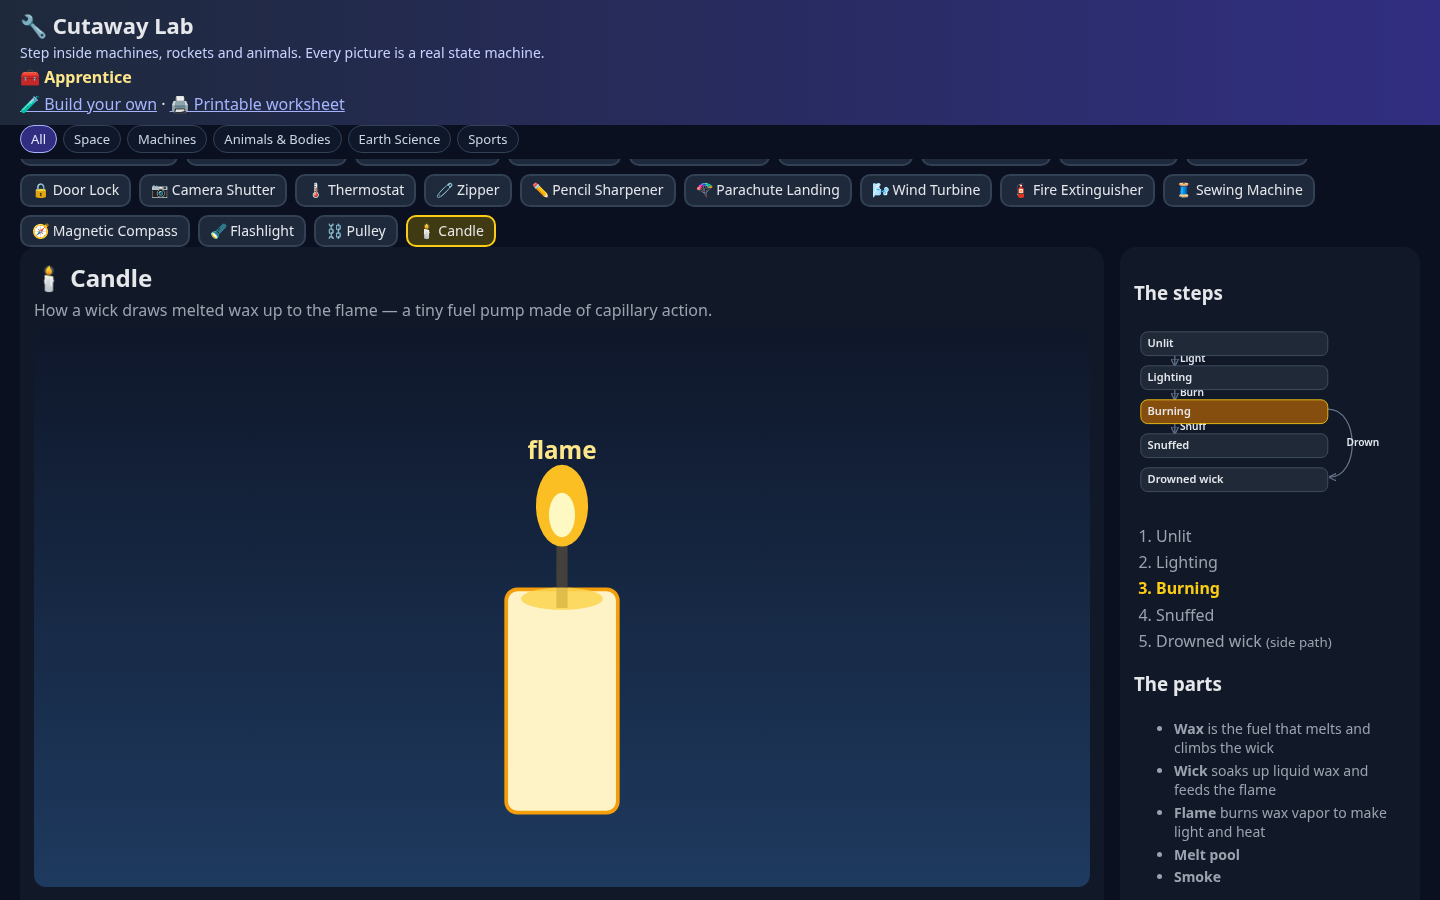
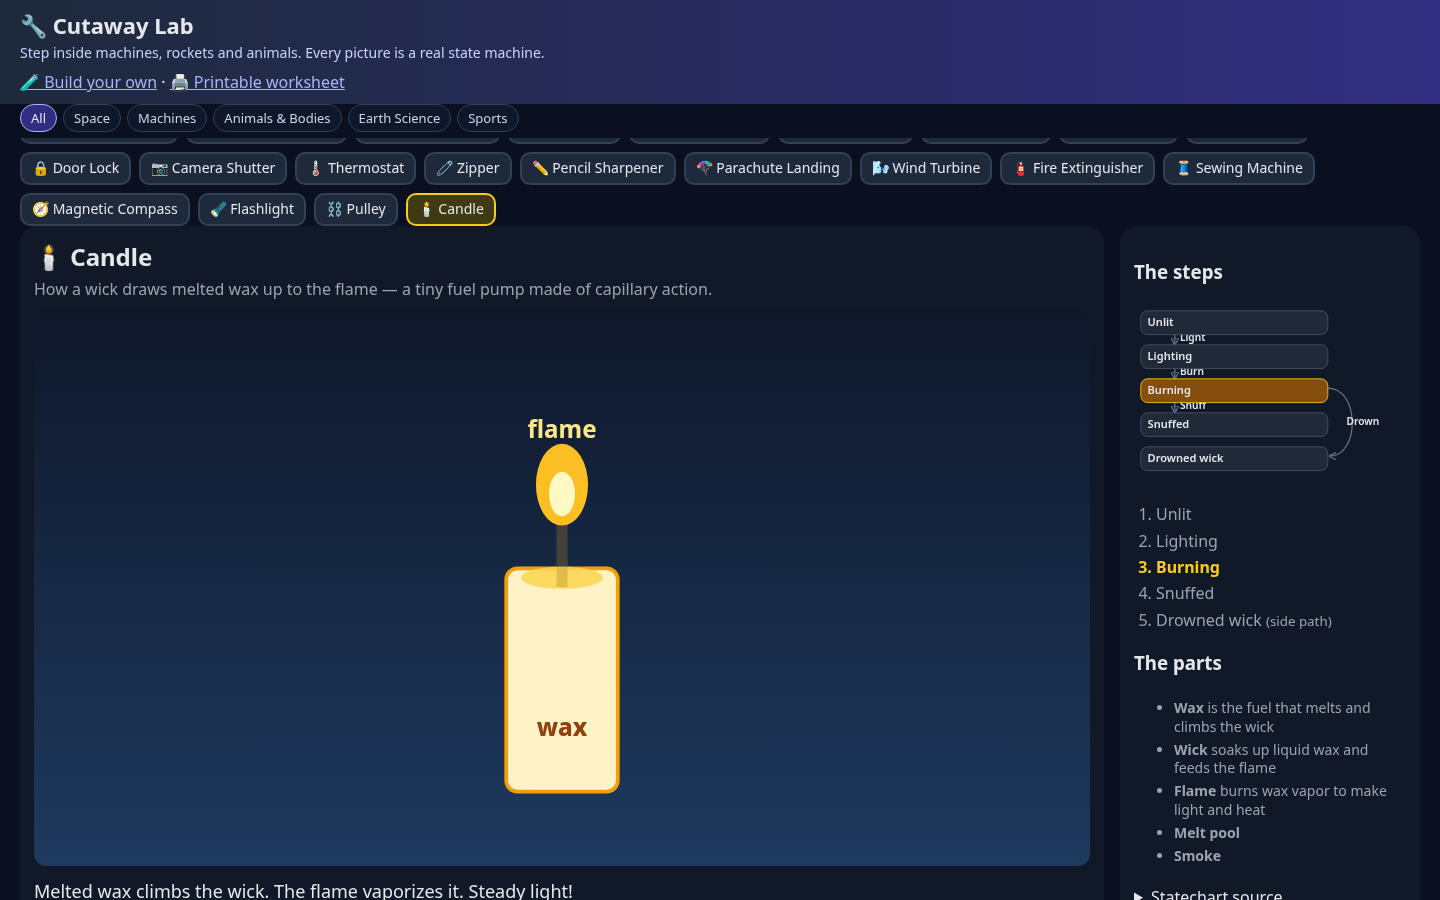
v1.0: bees hive caption below hive; candle wax label contrast
- Hive label no longer sits on the scout
- Wax caption uses dark amber so it reads on cream wax

diff --git a/machines/bees.js b/machines/bees.js
@@ -6,7 +6,7 @@ export default {
     { id: 'sun', label: 'Sun', job: 'is the compass the bees use for direction', svg: '<circle cx="350" cy="40" r="22" fill="#fde047"/>' },
     { id: 'hive', label: 'Hive', job: 'is where the dance happens', svg: '<rect x="30" y="170" width="90" height="100" rx="12" fill="#d97706"/><path d="M30 200 h90 M30 230 h90" stroke="#92400e" stroke-width="3"/>', explode: [-10, 10] },
     { id: 'lblHive', label: 'Hive label',
-      svg: '<text x="70" y="160" text-anchor="middle" fill="#fde68a" font-size="13" font-weight="700">hive</text>' },
+      svg: '<text x="70" y="250" text-anchor="middle" fill="#fde68a" font-size="13" font-weight="700">hive</text>' },
     { id: 'lblFlower', label: 'Flower label',
       svg: '<text x="320" y="120" text-anchor="middle" fill="#f9a8d4" font-size="13" font-weight="700">flowers</text>' },
     { id: 'flower', label: 'Flower patch', job: 'has the nectar the bees want', svg: '<g><g fill="#f472b6"><circle cx="318" cy="228" r="9"/><circle cx="342" cy="228" r="9"/><circle cx="330" cy="216" r="9"/><circle cx="330" cy="240" r="9"/></g><circle cx="330" cy="228" r="7" fill="#facc15"/><rect x="328" y="235" width="4" height="28" fill="#16a34a"/><ellipse cx="360" cy="250" rx="8" ry="6" fill="#fb7185"/><circle cx="360" cy="250" r="3" fill="#fde047"/></g>', explode: [10, 10] },

diff --git a/machines/candle.js b/machines/candle.js
@@ -10,7 +10,7 @@ export default {
     { id: 'lblFlame', label: 'Flame label',
       svg: '<text x="200" y="70" text-anchor="middle" fill="#fde68a" font-size="13" font-weight="700">flame</text>', pose: { opacity: 0 } },
     { id: 'lblWax', label: 'Wax label',
-      svg: '<text x="200" y="230" text-anchor="middle" fill="#fef3c7" font-size="13" font-weight="700">wax</text>' },
+      svg: '<text x="200" y="230" text-anchor="middle" fill="#92400e" font-size="13" font-weight="800">wax</text>' },
     { id: 'flame', label: 'Flame', job: 'burns wax vapor to make light and heat',
       svg: '<ellipse cx="200" cy="95" rx="14" ry="22" fill="#fbbf24"/><ellipse cx="200" cy="100" rx="7" ry="12" fill="#fef9c3"/>', pose: { opacity: 0 } },
     { id: 'pool', label: 'Melt pool',
